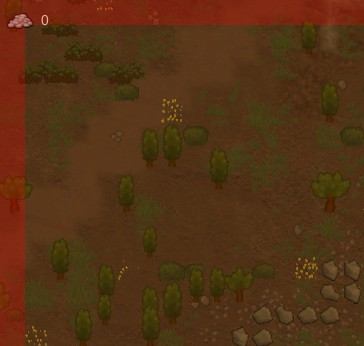
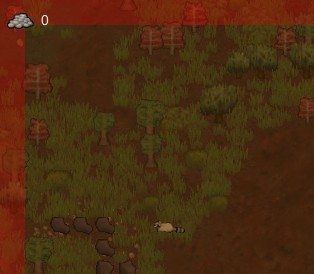
visual fixes
* fix uneven borders on bottom and corners
* borders now drawn below main UI
* update for the RimWorld 1.0.7087

diff --git a/Source/Core.cs b/Source/Core.cs
@@ -9,19 +9,23 @@ namespace BorderOnPause
         private static readonly Texture2D BorderTex =
             SolidColorMaterials.NewSolidColorTexture(new Color(1f, 0.0f, 0.0f, 0.25f));
 
-        static float borderThickness = 25f;
+        static float borderSize = 25f;
+        private static float bottomMenuSize = 35f;
 
         private static readonly Rect AllUI = new Rect(0, 0, UI.screenWidth, UI.screenHeight);
-        private static readonly Rect LeftBorder = new Rect(0, 0, borderThickness, UI.screenHeight);
+
+        private static readonly Rect LeftBorder =
+            new Rect(0, 0, borderSize, UI.screenHeight - borderSize - bottomMenuSize);
 
         private static readonly Rect TopBorder = new
-            Rect(borderThickness, 0, UI.screenWidth - borderThickness, borderThickness);
+            Rect(borderSize, 0, UI.screenWidth - borderSize, borderSize);
 
         private static readonly Rect RightBorder =
-            new Rect(UI.screenWidth - borderThickness, 0, borderThickness, UI.screenHeight);
+            new Rect(UI.screenWidth - borderSize, borderSize, borderSize,
+                UI.screenHeight - borderSize - bottomMenuSize);
 
-        private static readonly Rect BottomBorder = new Rect(borderThickness, UI.screenHeight - borderThickness * 2,
-            UI.screenWidth - borderThickness, borderThickness);
+        private static readonly Rect BottomBorder = new Rect(0, UI.screenHeight - borderSize - bottomMenuSize,
+            UI.screenWidth, borderSize);
 
 
         public static void Draw()

diff --git a/Source/Patch/RimWorld_MapInterface_MapInterfaceOnGUI.cs b/Source/Patch/RimWorld_MapInterface_MapInterfaceOnGUI.cs
@@ -6,6 +6,6 @@ namespace BorderOnPause.Patch
     [HarmonyPatch(typeof(MapInterface), "MapInterfaceOnGUI_BeforeMainTabs")]
     internal static class RimWorld_MapInterface_MapInterfaceOnGUI_BeforeMainTabs
     {
-        private static void Postfix() => Core.Draw();
+        private static void Prefix() => Core.Draw();
     }
 }

diff --git a/Source/Mod.cs b/Source/Mod.cs
@@ -8,7 +8,7 @@ namespace BorderOnPause
     {
         public const string Id = "BorderOnPause";
         public const string Name = "More visible pause";
-        public const string Version = "0.0.1";
+        public const string Version = "1.0.1";
 
         static Mod()
         {
